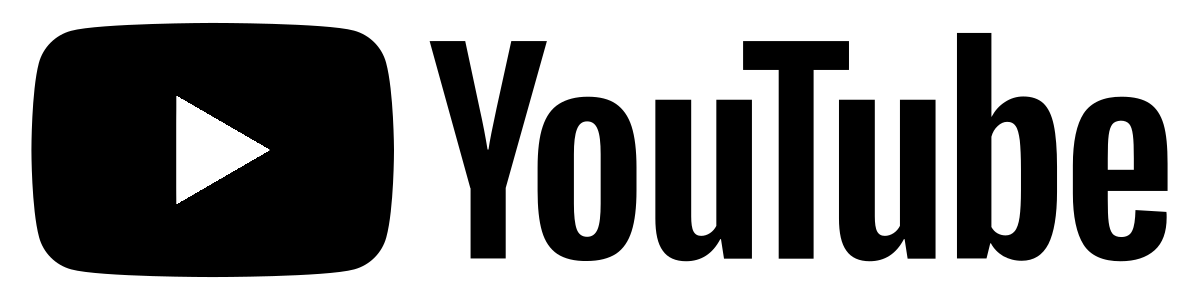
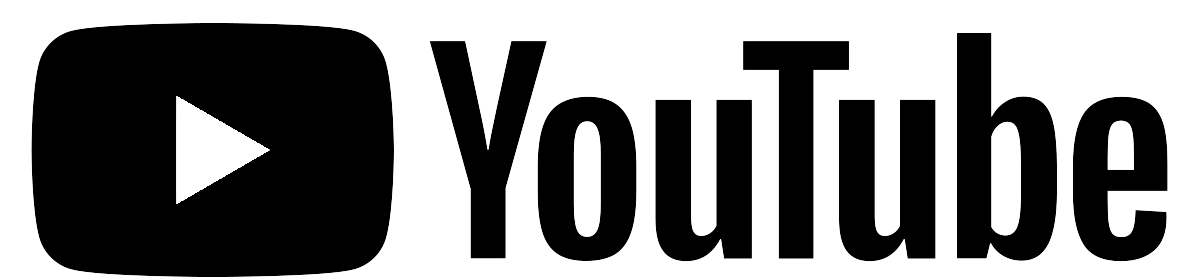
modified:   PRO/about.html 	modified:   PRO/contact.html 	modified:   PRO/index.html 	modified:   PRO/style.css 	modified:   PRO/youtube.png

diff --git a/PRO/style.css b/PRO/style.css
@@ -9,11 +9,12 @@ body{
     background-color:rgb(50, 50, 50);
     text-align: center;
     color: white;
-    padding: 1% 4%;
+    padding: 1% 3%;
     float: left;
     text-decoration:none;
     font-weight: bolder;
     font-family:'Segoe UI', Tahoma, Geneva, Verdana, sans-serif ;
+    font-size: 21px;
 }
 .topnav a:hover{
     background-color:rgb(130, 100, 15) ;
@@ -30,12 +31,7 @@ footer{
     font-size: larger;
 }
 .topnav .yt{
-    padding-left: 2px;
-    padding-right: 2px;
-    padding-top: 7px;
-    padding-bottom: 10px;
-    width: 10vw;
-    height:2vh;
+    padding: 1% 2%;
     float: right;
     background-color: goldenrod;
     color: black;

diff --git a/PRO/index.html b/PRO/index.html
@@ -15,7 +15,7 @@
             <a class="active" href="/PRO">HOME</a>
             <a href="/PRO/about.html">ABOUT</a>
             <a href="/PRO/contact.html">CONTACT</a>
-            <a href="https://youtube.com/LegendM" class="yt"><img width="100%" src="/PRO/youtube.png" alt="YouTube"></a>
+            <a href="https://youtube.com/LegendM" class="yt"><img width="90vw" src="/PRO/youtube.png" alt="YouTube"></a>
             </div>
         </nav>
     </header>

diff --git a/PRO/about.html b/PRO/about.html
@@ -14,7 +14,7 @@
             <a href="/PRO">HOME</a>
             <a class="active" href="/PRO/about.html">ABOUT</a>
             <a href="/PRO/contact.html">CONTACT</a>
-            <a onclick="alert('Mode')" class="theme">T</a>
+            <a href="https://youtube.com/LegendM" class="yt"><img width="90vw" src="/PRO/youtube.png" alt="YouTube"></a>
             </div>
         </nav>
     </header>

diff --git a/PRO/contact.html b/PRO/contact.html
@@ -14,7 +14,7 @@
             <a href="/PRO">HOME</a>
             <a href="/PRO/about.html">ABOUT</a>
             <a class="active" href="/PRO/contact.html">CONTACT</a>
-            <a onclick="alert('Mode')" class="theme">T</a>
+            <a href="https://youtube.com/LegendM" class="yt"><img width="90vw" src="/PRO/youtube.png" alt="YouTube"></a>
             </div>
         </nav>
     </header>
